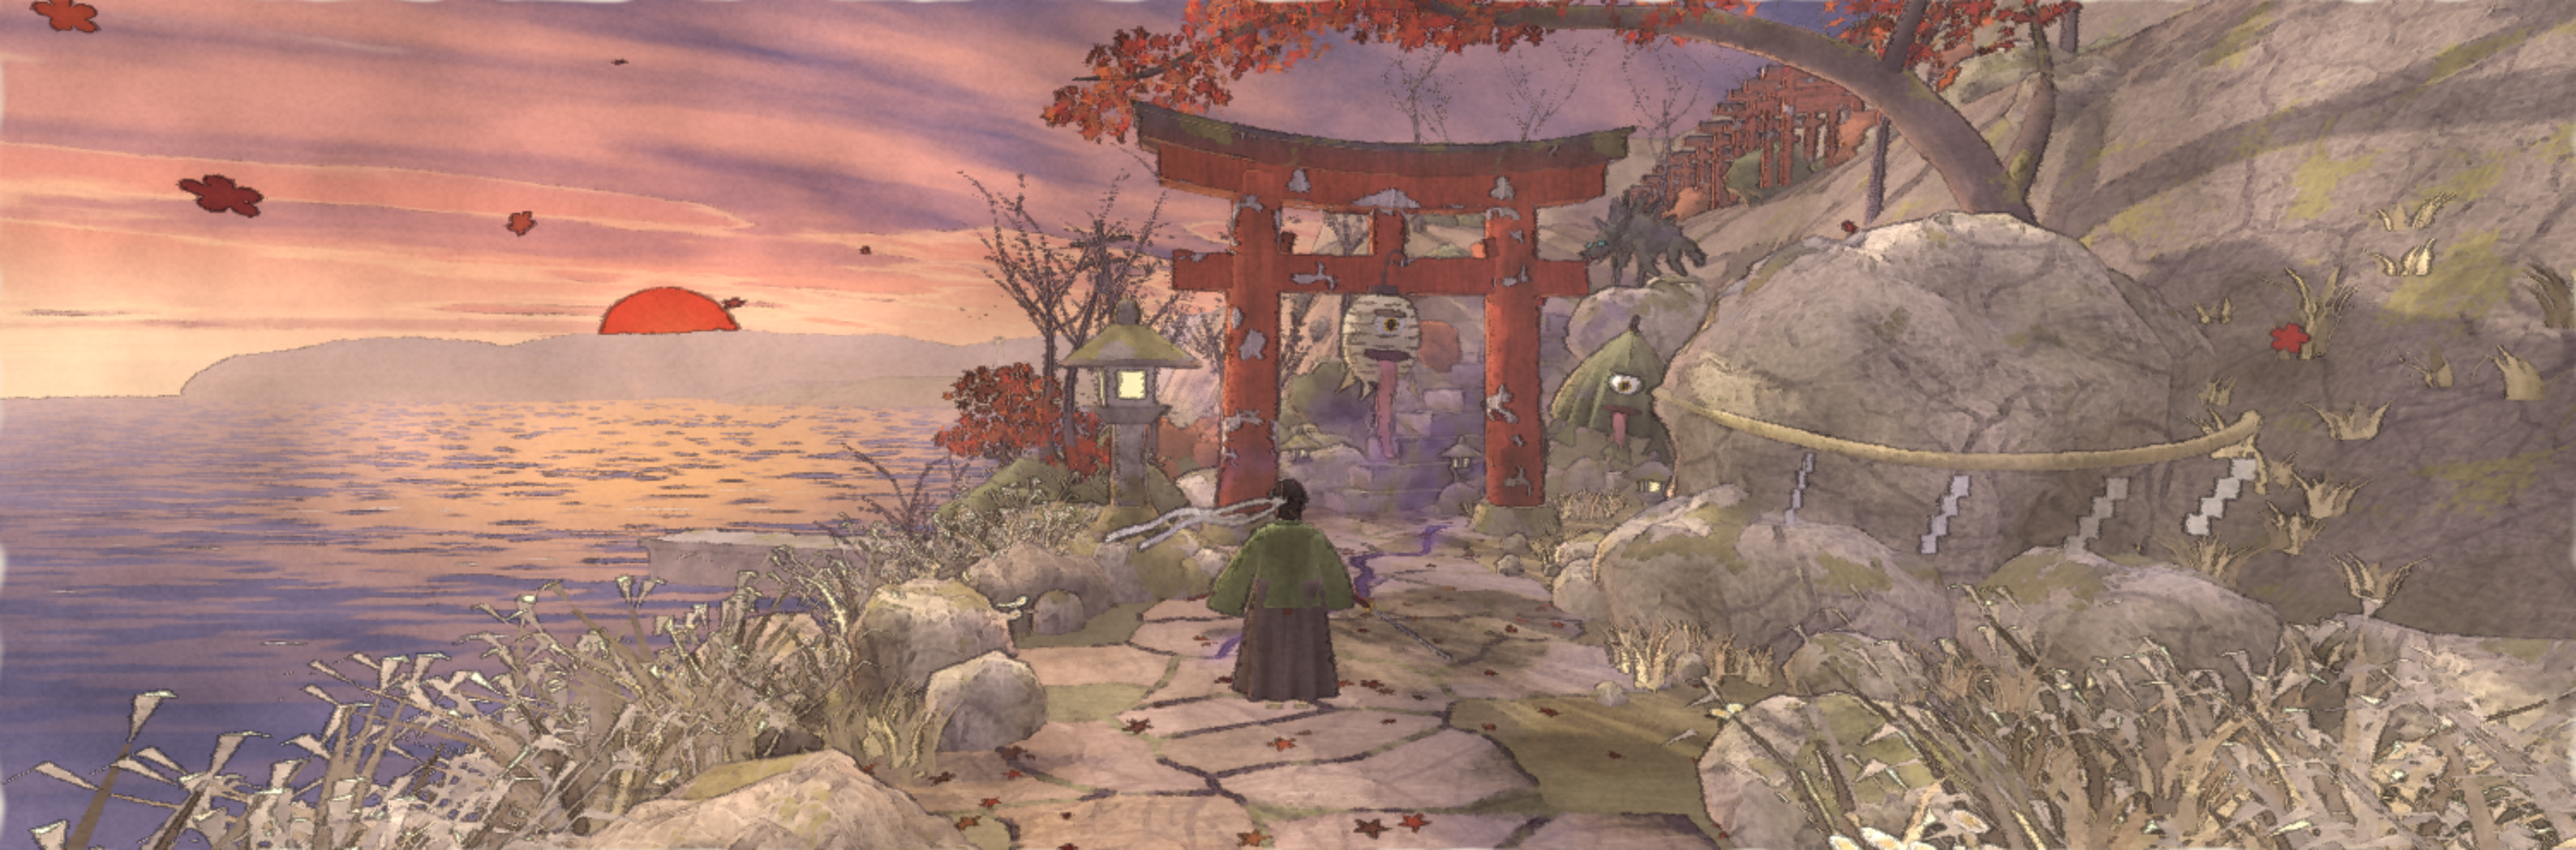
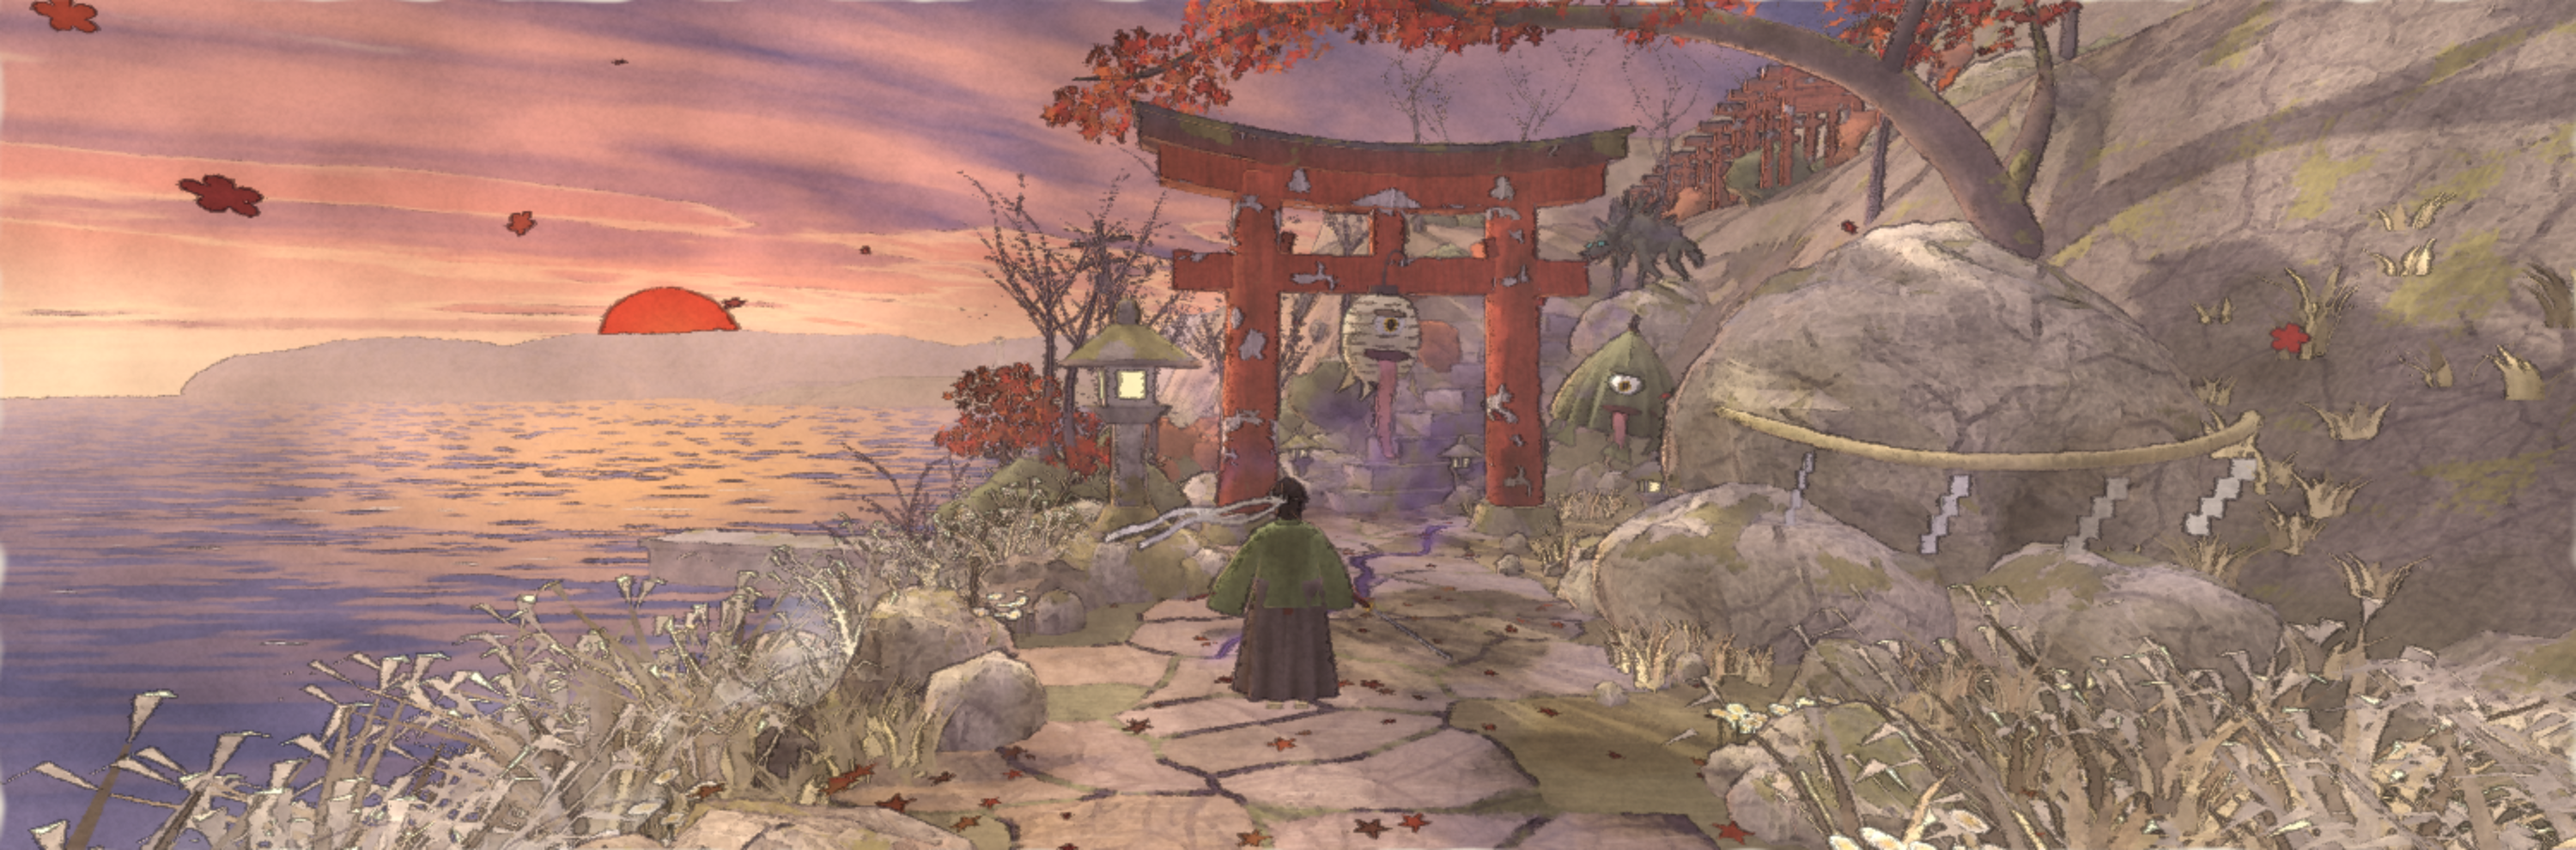
V3（途中）: 岩の角ばり（鑿の面）・待機の呼吸・山犬の尾・波しぶき。PROGRESS と比較画像
Claude-Session: https://claude.ai/code/session_0145zJV95Y6pEXcinHn9hr8N

diff --git a/src/data/lookdev/models.js b/src/data/lookdev/models.js
@@ -67,12 +67,12 @@ export const models = {
   // ---- 注連縄の巨岩 ----
   iwakura: {
     parts: [
-      { s: 'sph', r: [2.45, 2.5, 2.15], seg: 40, at: [0, 1.85, 0], col: 'rock', col2: 'rockHi', fx: [0.32, 0, 1, 0], jitter: 0.6, jfreq: 0.7, seed: 3, joct: 5 },
+      { s: 'sph', r: [2.45, 2.5, 2.15], seg: 44, at: [0, 1.85, 0], col: 'rock', col2: 'rockHi', fx: [0.32, 0, 1, 0], chisel: [14, 0.13, 3], jitter: 0.3, jfreq: 1.1, seed: 3, joct: 5, flat: true },
       { s: 'sph', r: [1.5, 1.0, 1.4], seg: 20, at: [1.9, 0.5, -1.3], col: 'rock', col2: 'rockHi', fx: [0.35, 0, 1, 0], jitter: 0.4, jfreq: 0.8, seed: 5, joct: 5 },
       { s: 'sph', r: [1.2, 0.8, 1.2], seg: 18, at: [-0.6, 0.4, -2.2], col: 'rock', col2: 'rockHi', fx: [0.35, 0, 1, 0], jitter: 0.35, jfreq: 0.9, seed: 7, joct: 5 },
       // 注連縄（岩を一周。手前で少したるむ）
       { s: 'tube', seg: 40, rseg: 7, r: 0.075, col: 'straw', col2: 'strawHi',
-        path: [[2.62, 2.6, 0.2], [2.15, 2.3, -1.45], [0.9, 2.05, -2.33], [-0.8, 2.15, -2.33], [-2.2, 2.45, -1.25], [-2.58, 2.7, 0.3], [-1.75, 2.8, 1.75], [0, 2.85, 2.28], [1.85, 2.75, 1.62], [2.62, 2.6, 0.2]] },
+        path: [[2.36, 2.6, 0.2], [1.98, 2.3, -1.4], [0.9, 2.05, -2.3], [-0.8, 2.15, -2.33], [-2.2, 2.45, -1.25], [-2.58, 2.7, 0.3], [-1.75, 2.8, 1.75], [0, 2.85, 2.28], [1.75, 2.75, 1.55], [2.36, 2.6, 0.2]] },
       // 紙垂（白い紙。手前側に4枚）と房
       { s: 'ref', model: 'shide', at: [1.75, 2.08, -2.0], rot: [0, 40, 0], scale: 0.6 },
       { s: 'ref', model: 'shide', at: [0.75, 1.94, -2.46], rot: [0, 12, 0], scale: 0.6 },
@@ -89,10 +89,10 @@ export const models = {
     ],
   },
   // ---- 岩（小。散らす用） ----
-  rockA: { parts: [{ s: 'sph', r: [0.9, 0.6, 0.75], seg: 18, at: [0, 0.3, 0], col: 'rock', col2: 'rockHi', fx: [0.35, 0, 1, 0], jitter: 0.28, jfreq: 1.3, seed: 2, joct: 5 }] },
-  rockB: { parts: [{ s: 'sph', r: [0.7, 0.75, 0.6], seg: 18, at: [0, 0.35, 0], col: 'rockDark', col2: 'rock', fx: [0.3, 0, 1, 0], jitter: 0.25, jfreq: 1.6, seed: 11, joct: 5 }] },
-  rockC: { parts: [{ s: 'sph', r: [1.5, 0.85, 1.1], seg: 18, at: [0, 0.3, 0], col: 'rock', col2: 'rockHi', fx: [0.35, 0, 1, 0], jitter: 0.4, jfreq: 0.9, seed: 21, joct: 5 }] },
-  rockShore: { parts: [{ s: 'sph', r: [1.3, 1.0, 1.1], seg: 18, at: [0, 0.2, 0], col: 'rockWet', col2: 'rock', fx: [0.15, 0, 1, 0], jitter: 0.45, jfreq: 1.0, seed: 31, joct: 5 }] },
+  rockA: { parts: [{ s: 'sph', r: [0.9, 0.6, 0.75], seg: 18, at: [0, 0.3, 0], col: 'rock', col2: 'rockHi', fx: [0.35, 0, 1, 0], chisel: [9, 0.3, 2], jitter: 0.1, jfreq: 2.2, seed: 2, joct: 4, flat: true }] },
+  rockB: { parts: [{ s: 'sph', r: [0.7, 0.75, 0.6], seg: 18, at: [0, 0.35, 0], col: 'rockDark', col2: 'rock', fx: [0.3, 0, 1, 0], chisel: [9, 0.32, 11], jitter: 0.09, jfreq: 2.4, seed: 11, joct: 4, flat: true }] },
+  rockC: { parts: [{ s: 'sph', r: [1.5, 0.85, 1.1], seg: 20, at: [0, 0.3, 0], col: 'rock', col2: 'rockHi', fx: [0.35, 0, 1, 0], chisel: [11, 0.3, 21], jitter: 0.14, jfreq: 1.6, seed: 21, joct: 4, flat: true }] },
+  rockShore: { parts: [{ s: 'sph', r: [1.3, 1.0, 1.1], seg: 18, at: [0, 0.2, 0], col: 'rockWet', col2: 'rock', fx: [0.15, 0, 1, 0], chisel: [10, 0.32, 31], jitter: 0.14, jfreq: 1.7, seed: 31, joct: 4, flat: true }] },
   pebbleA: { parts: [{ s: 'sph', r: [0.9, 0.6, 0.75], seg: 9, at: [0, 0.3, 0], col: 'rock', col2: 'rockHi', fx: [0.35, 0, 1, 0], jitter: 0.28, jfreq: 1.3, seed: 2, joct: 4 }] },
   pebbleB: { parts: [{ s: 'sph', r: [0.7, 0.75, 0.6], seg: 9, at: [0, 0.35, 0], col: 'rockDark', col2: 'rockHi', fx: [0.3, 0, 1, 0], jitter: 0.25, jfreq: 1.6, seed: 11, joct: 4 }] },
   // ---- 茂み（枯れかけの低木・紅葉の残る低木） ----
@@ -309,7 +309,7 @@ export const models = {
       { s: 'loft', seg: 8, n: 14, col: 'wolf', col2: 'wolfLo', gradUv: true, st: [[0.16, 0.98, -0.52, 0.11, 0.15], [0.2, 0.62, -0.36, 0.075, 0.09], [0.19, 0.36, -0.66, 0.042, 0.045], [0.19, 0.05, -0.58, 0.055, 0.07]] },
       { s: 'loft', seg: 8, n: 14, col: 'wolf', col2: 'wolfLo', gradUv: true, st: [[-0.16, 0.98, -0.46, 0.11, 0.15], [-0.2, 0.62, -0.3, 0.075, 0.09], [-0.19, 0.36, -0.6, 0.042, 0.045], [-0.19, 0.05, -0.52, 0.055, 0.07]] },
       // 尾（下げた毛のふさ）
-      { s: 'loft', seg: 8, n: 12, col: 'wolfLo', col2: 'wolf', jitter: 0.04, jfreq: 8, joct: 3,
+      { s: 'loft', seg: 8, n: 12, col: 'wolfLo', col2: 'wolf', jitter: 0.04, jfreq: 8, joct: 3, anim: [1, 0.1, 0], animGrad: [0, 0.3],
         st: [[0, 1.0, -0.78, 0.06, 0.06], [0.03, 0.86, -1.04, 0.1, 0.1], [0.08, 0.62, -1.24, 0.095, 0.095], [0.1, 0.42, -1.34, 0.015, 0.015]] },
       // 逆立つ毛：首のまわりのたてがみ → 肩 → 背 → 腰
       { s: 'cyl', r: [0.09, 0.0], h: 0.42, seg: 4, at: [0, 1.22, 0.86], rot: [-8, 0, 0], col: 'wolf' },

diff --git a/src/render/lookdev/view.js b/src/render/lookdev/view.js
@@ -322,36 +322,41 @@ export function createLookdevView(renderer, cfg) {
     nonCasters.push(sea);
     disposables.push(hmTex, seaGeo, seaMat);
 
-    // 紫の靄（裂け目と石段から立ちのぼる）
-    const mistRng = rng.fork('mist');
-    const weightSum = S.mistSources.reduce((a, m) => a + m[N4], 0);
-    const mistGeo = billboards(L.mistCount[q], (i, seed) => {
-      let pick = mistRng.float() * weightSum;
-      let src = S.mistSources[0];
-      for (const m of S.mistSources) {
-        src = m;
-        pick -= m[N4];
-        if (pick <= 0) break;
-      }
-      seed[i * N4] = src[0] + mistRng.range(-1, 1) * src[N3];
-      seed[i * N4 + 1] = src[1] + mistRng.float() * HALF;
-      seed[i * N4 + 2] = src[2] + mistRng.range(-1, 1) * src[N3];
-      seed[i * N4 + N3] = mistRng.float();
-    });
-    const mistMat = new ShaderMaterial({
-      vertexShader: MIST_VERT,
-      fragmentShader: MIST_FRAG,
-      defines: { OCT: 2 },
-      uniforms: { uTime: U.uTime, uMist: { value: new Vector4() }, uMistCol: { value: col(S.mist.col) }, uMistCore: { value: col(S.mist.core) } },
-      transparent: true,
-      depthWrite: false,
-    });
-    const mist = new Mesh(mistGeo, mistMat);
-    mist.frustumCulled = false;
-    mist.renderOrder = 2;
-    root.add(mist);
-    nonCasters.push(mist);
-    disposables.push(mistMat);
+    // 煙のように上る板の群れ：紫の靄（裂け目と石段）と、白い波しぶき（岸の岩）
+    const puffs = (name, sources, count, c0, c1) => {
+      const pr = rng.fork(name);
+      const weightSum = sources.reduce((a, m) => a + m[N4], 0);
+      const geo = billboards(count, (i, seed) => {
+        let pick = pr.float() * weightSum;
+        let src = sources[0];
+        for (const m of sources) {
+          src = m;
+          pick -= m[N4];
+          if (pick <= 0) break;
+        }
+        seed[i * N4] = src[0] + pr.range(-1, 1) * src[N3];
+        seed[i * N4 + 1] = src[1] + pr.float() * HALF;
+        seed[i * N4 + 2] = src[2] + pr.range(-1, 1) * src[N3];
+        seed[i * N4 + N3] = pr.float();
+      });
+      const mat = new ShaderMaterial({
+        vertexShader: MIST_VERT,
+        fragmentShader: MIST_FRAG,
+        defines: { OCT: 2 },
+        uniforms: { uTime: U.uTime, uMist: { value: new Vector4() }, uMistCol: { value: col(c0) }, uMistCore: { value: col(c1) } },
+        transparent: true,
+        depthWrite: false,
+      });
+      const mesh = new Mesh(geo, mat);
+      mesh.frustumCulled = false;
+      mesh.renderOrder = 2;
+      root.add(mesh);
+      nonCasters.push(mesh);
+      disposables.push(mat);
+      return mat;
+    };
+    const mistMat = puffs('mist', S.mistSources, L.mistCount[q], S.mist.col, S.mist.core);
+    const sprayMat = puffs('spray', S.spraySources, L.sprayCount[q], S.spray.col, S.spray.core);
 
     // 舞う紅葉
     const leafRng = rng.fork('leaf');
@@ -390,7 +395,7 @@ export function createLookdevView(renderer, cfg) {
     disposables.push(leafMat);
 
     // 毎フレーム cfg から書き換える uniform の置き場
-    root.userData = { skyMat, seaMat, mistMat, leafMat, origin: o };
+    root.userData = { skyMat, seaMat, mistMat, sprayMat, leafMat, origin: o };
     builtQuality = q;
     builtWorld = world;
   }
@@ -408,6 +413,7 @@ export function createLookdevView(renderer, cfg) {
     m.skyMat.uniforms.uSky.value.set(L.sunRadiusDeg * DEG2RAD, 0, 0, 0);
     m.seaMat.uniforms.uSea.value.set(L.seaSpeedRatio, L.seaGlitterRatio, L.seaFoamRatio, L.seaLaneRatio);
     m.mistMat.uniforms.uMist.value.set(L.mistSizeM, L.mistRiseRatio, L.mistAlphaRatio, L.mistRiseM);
+    m.sprayMat.uniforms.uMist.value.set(L.spraySizeM, L.sprayRiseRatio, L.sprayAlphaRatio, L.sprayRiseM);
     m.leafMat.uniforms.uLeaf.value.set(L.leafSizeM, L.leafFallMps, L.leafDriftMps, 0);
     // 影の図：夕日の方角・決めた仰角から、場面の中心を見下ろす
     if (shadowRT) {

diff --git a/src/render/lookdev/build.js b/src/render/lookdev/build.js
@@ -7,6 +7,7 @@ import {
 } from 'three';
 import { DEG2RAD } from '../../core/math.js';
 import { fbm3 } from '../../core/noise.js';
+import { createRng } from '../../core/rng.js';
 import { HALF, N3, N4, SEG_DEFAULT, TAU } from './consts.js';
 
 const ZERO4 = [0, 0, 0, 0];
@@ -221,6 +222,37 @@ function bendGeometry(g, bendY, halfLen) {
   g.computeVertexNormals();
 }
 
+/**
+ * 鑿（のみ）で割ったような平らな面を付ける（岩）：でたらめな向きの平面で、はみ出した頂点を面の上へ押し戻す。
+ * chisel=[面の数, 削る深さ（半径に対する比の上限）, 種]。面と面の境が稜になり、後処理の「内側の線」が乗る。
+ */
+function chiselGeometry(g, chisel) {
+  const [count, depth, seed] = chisel;
+  const rng = createRng(seed);
+  g.computeBoundingBox();
+  const bb = g.boundingBox;
+  const c = bb.getCenter(new Vector3());
+  const half = bb.getSize(new Vector3()).multiplyScalar(HALF);
+  const pos = g.attributes.position;
+  const n = new Vector3();
+  const v = new Vector3();
+  for (let k = 0; k < count; k++) {
+    n.set(rng.range(-1, 1), rng.range(-HALF, 1), rng.range(-1, 1)).normalize();
+    // その向きでの岩の「半径」から、少し内側に平面を置く
+    const reach = Math.hypot(n.x * half.x, n.y * half.y, n.z * half.z);
+    const d = reach * (1 - depth * rng.range(HALF * HALF, 1));
+    for (let i = 0; i < pos.count; i++) {
+      v.fromBufferAttribute(pos, i).sub(c);
+      const over = v.dot(n) - d;
+      if (over > 0) {
+        v.addScaledVector(n, -over).add(c);
+        pos.setXYZ(i, v.x, v.y, v.z);
+      }
+    }
+  }
+  g.computeVertexNormals();
+}
+
 /** ノイズで頂点を法線方向へ出し入れする（岩・古い石の凹凸）。 */
 function jitterGeometry(g, amount, freq, seed, oct) {
   const pos = g.attributes.position;
@@ -281,6 +313,7 @@ export function createBuilder(lib = {}) {
       return;
     }
     let g = shapeGeometry(p, lib.segMul ?? 1);
+    if (p.chisel) chiselGeometry(g, p.chisel);
     if (p.flute) fluteGeometry(g, p.flute);
     if (p.bendY) bendGeometry(g, p.bendY, p.size[0] * HALF);
     if (p.jitter) {

diff --git a/src/config/lookdev.js b/src/config/lookdev.js
@@ -47,6 +47,10 @@ export const lookdev = {
   mistRiseRatio: { v: 0.07, min: 0, max: 1, step: 0.01, desc: '靄が上る速さ' },
   mistAlphaRatio: { v: 0.34, min: 0, max: 1, step: 0.01, desc: '靄の濃さ' },
   mistRiseM: { v: 2.2, min: 0, max: 8, step: 0.1, desc: '靄が上る高さ（m）' },
+  spraySizeM: { v: 0.8, min: 0.1, max: 4, step: 0.05, desc: '波しぶきの粒の大きさ（m）' },
+  sprayRiseRatio: { v: 0.35, min: 0, max: 2, step: 0.01, desc: '波しぶきが上がる速さ' },
+  sprayAlphaRatio: { v: 0.5, min: 0, max: 1, step: 0.01, desc: '波しぶきの濃さ' },
+  sprayRiseM: { v: 1.6, min: 0, max: 6, step: 0.1, desc: '波しぶきが上がる高さ（m）' },
   leafSizeM: { v: 0.11, min: 0.02, max: 0.6, step: 0.01, desc: '舞う葉の大きさ（m）' },
   leafFallMps: { v: 0.55, min: 0, max: 4, step: 0.05, desc: '舞う葉の落ちる速さ（m/s）' },
   leafDriftMps: { v: 0.9, min: 0, max: 4, step: 0.05, desc: '舞う葉が風に流れる速さ（m/s）' },
@@ -84,6 +88,7 @@ export const lookdev = {
   octaveCount: { v: { high: 3, mid: 2, low: 1 }, desc: '色むらの細かさ（ノイズの重ね数）' },
   floraMul: { v: { high: 1, mid: 0.6, low: 0.3 }, desc: '草・花・葉の量（倍）' },
   mistCount: { v: { high: 60, mid: 36, low: 16 }, desc: '靄の粒の数' },
+  sprayCount: { v: { high: 40, mid: 24, low: 10 }, desc: '波しぶきの粒の数' },
   leafCount: { v: { high: 70, mid: 40, low: 16 }, desc: '舞う葉の数' },
   meshDetailMul: { v: { high: 1, mid: 0.8, low: 0.6 }, desc: '形の細かさ（円や球の分割数に掛ける。スマホ向けに三角形を減らす）' },
   scatterMul: { v: { high: 1, mid: 0.8, low: 0.5 }, desc: '散らす岩・茂みの数（倍）' },

diff --git a/src/data/lookdev/scene.js b/src/data/lookdev/scene.js
@@ -367,6 +367,11 @@ export const scene = {
     [-0.2, 0.1, 2.7, 0.4, 2], [-1.0, 0.1, 3.6, 0.5, 3], [-1.2, 0.1, 5.0, 0.5, 3], [-2.1, 0.1, 5.9, 0.6, 3], [-2.6, 0.2, 7.6, 0.8, 3], [-3.6, 0.5, 8.6, 1.2, 3],
     [-4.6, 1.2, 10.4, 1.6, 3], [-6.4, 2.6, 12.5, 2.0, 2], [0.6, 0.2, 9.2, 1.4, 2], [-8.2, 4.4, 14.4, 1.6, 2],
   ],
+  // 波しぶきの上がる所（岸の岩）[x, y, z, 広がり(m), 重み]
+  spraySources: [
+    [5.2, -2.6, -3.6, 0.7, 3], [5.9, -2.8, -1.2, 0.8, 3], [6.4, -2.9, 1.4, 0.8, 2], [5.0, -2.4, -5.6, 0.7, 3], [6.3, -2.8, 4.4, 0.9, 2], [7.4, -2.9, 7.2, 1.0, 2],
+  ],
+  spray: { col: '#e9e2dc', core: '#fbf7f0' },
   // 舞う葉の範囲（x幅, 高さ, z奥行）と中心
   leafBox: { size: [26, 9, 22], center: [0, 0, 4] },
 

diff --git a/src/render/lookdev/shadersWash.js b/src/render/lookdev/shadersWash.js
@@ -31,6 +31,8 @@ void main() {
   }
   // 体の上下（歩き）
   if (kind > 1.5) p.y += abs(sin(uWalk.x)) * uWalk.y * 0.035;
+  // 待機の呼吸：胴から上がわずかに上下する（脚は動かさない）
+  if (kind > 3.5) p.y += sin(uTime * 1.7) * 0.005 * smoothstep(0.7, 1.4, p.y) * (1.0 - uWalk.y);
   vec4 w = modelMatrix * vec4(p, 1.0);
   float ph = dot(w.xz, vec2(0.37, 0.29)) + aAnim.z;
   // 1：風にしなる（草・枝先の葉）

diff --git a/PROGRESS.md b/PROGRESS.md
@@ -40,13 +40,16 @@
 - [x] **形の内側の線**：後処理で面の折れ目（木組みの角・石段の縁・岩の稜）に、輪郭より薄い線を引く（`creaseRatio`・`creaseDepthRatio`）。効きは控えめ（岩は面がなめらかなので線が少ない）
 - [x] **スマホ向けの軽量化**：品質ごとに形の細かさ（`meshDetailMul`）と散らす数（`scatterMul`）を減らす。三角形は 高 約40万／中 約28万／低 約11万（V2 の低は約15万）
 - [x] 石段の両脇に岩、雲を少し細かく
+- [x] **岩に角ばり**：鑿で割ったような平らな面を岩に付けた（`chisel`）。面と面の境が稜になり、内側の線が乗る。注連縄は岩に沿うよう合わせ直した
+- [x] **動き**：主人公の待機の呼吸（胴から上がわずかに上下）、山犬の尾の揺れ
+- [x] **波しぶき**：岸の岩から白いしぶきが上がる（`spray*`）。この構図では草の向こうに少し見える程度
 - [x] テスト：`npm run verify` 成功（単体137件・e2e 46件、エラー0件）。比較 `design-notes/lookdev/compare_v3.png`、`v3_high.png`・`v3_phone_1000x330.png`（スマホと同じ画面の大きさ）・`v3_hero.png`・`v3_yokai.png`
 - [ ] 残り：下の「まだ遠い点」
 
 ### まだ遠い点（V3 の残り。効果の大きい順）
-1. **面の描き込みと線**：参考は細い墨線で形の内側（石の割れ・木の皮・瓦）まで描いてある。内側の線は入れたが、まだ輪郭が主。岩に稜（角ばり）を付ける・質感のひびを線として強める
-2. **主人公と妖怪の動き**：形は作り込んだが、動きは歩きの脚と布・舌の揺れだけ。待機の呼吸、妖怪の身じろぎ、顔の表情が無い
-3. **地形の形**：鳥居の奥の丘と石段がまだ単調（木の根・段差・崩れた石垣）。左下の波しぶきが無い
+1. **面の描き込みと線**：参考は細い墨線で形の内側（石の割れ・木の皮・瓦）まで描いてある。内側の線と岩の角ばりは入れたが、まだ輪郭が主。質感のひびを線として強める・木や布にも線を足す
+2. **主人公と妖怪の動き**：形は作り込んだが、動きは歩きの脚・呼吸・布や舌や尾の揺れだけ。妖怪の身じろぎ、顔の表情が無い
+3. **地形の形**：鳥居の奥の丘と石段がまだ単調（木の根・段差・崩れた石垣）
 4. **空**：参考の「細かなうろこ雲」と紙のざらつきにはまだ遠い
 5. **実機の重さ**：依頼者の実機（iPhone の Safari）で「高」が表示できることは確認済み。fps は未確認
 
